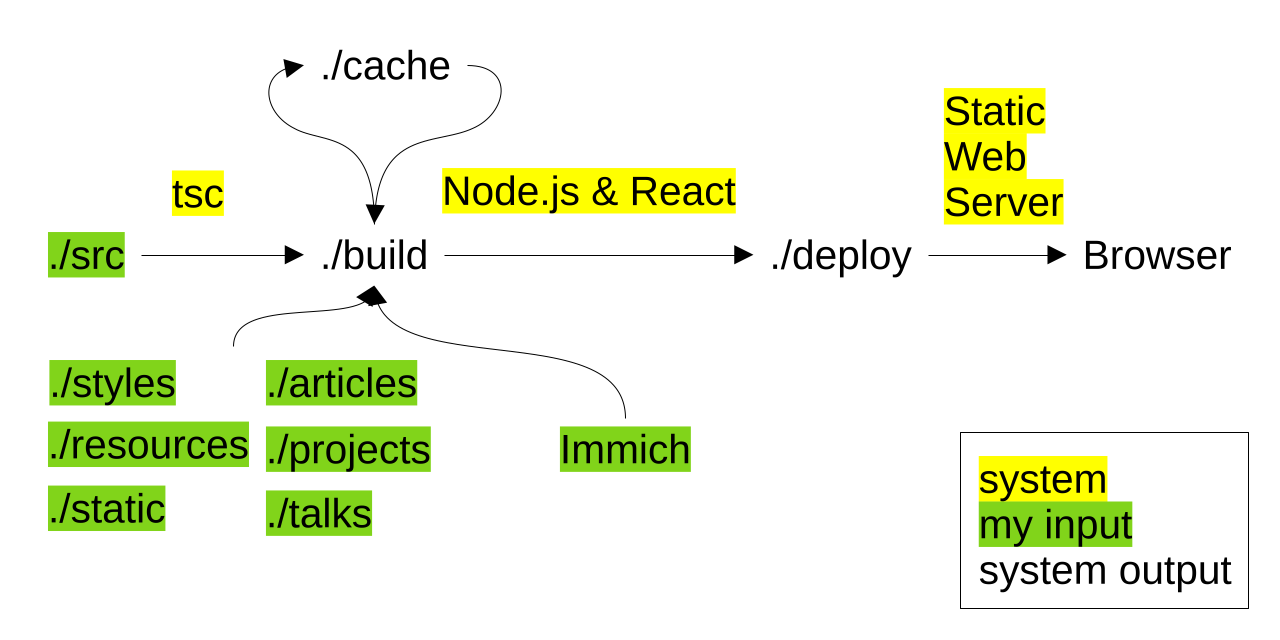
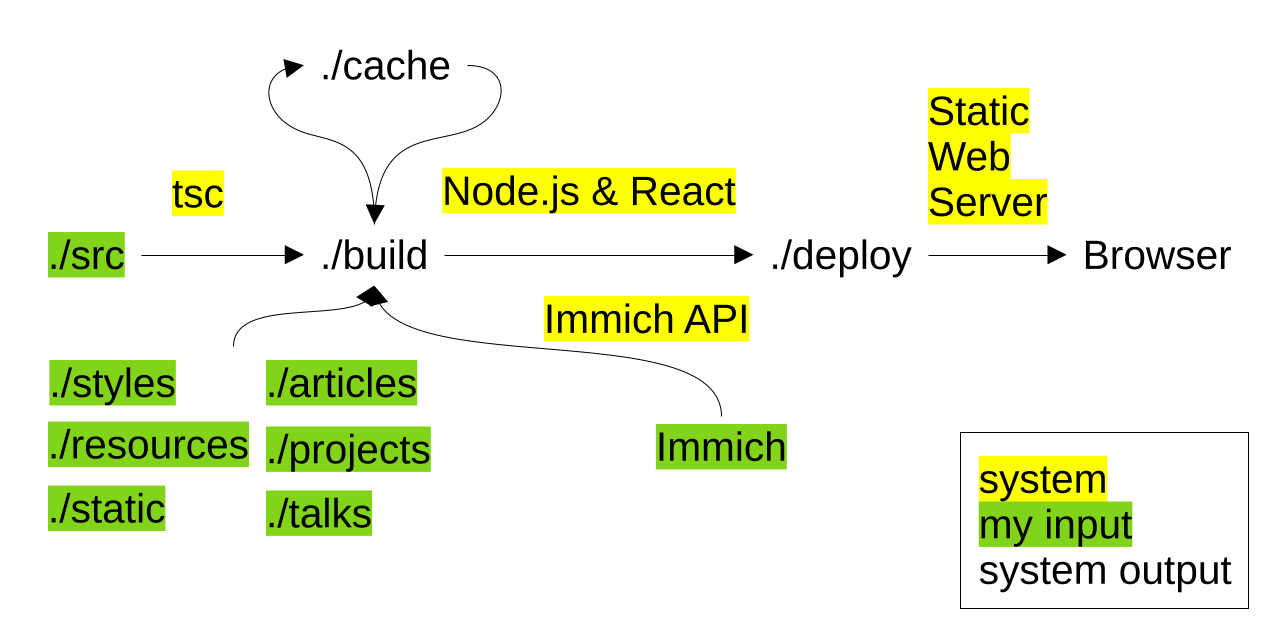
feat: work on homepage articl

diff --git a/src/worker/embedding_worker.tsx b/src/worker/embedding_worker.tsx
@@ -51,7 +51,7 @@ export async function embedSentences(sentences: string[]): Promise<number[][]> {
 
     if (sentenceExtractor == undefined) {
         env.localModelPath = modelPath;
-        // We loda the model from the internet in the CI pipeline but use the local one on the dev machine.
+        // We load the model from the internet in the CI pipeline but use the local one on the dev machine.
         // env.allowRemoteModels = false;
         sentenceExtractor = await pipeline("feature-extraction", "Xenova/all-MiniLM-L6-v2", { dtype: "fp32" });
     }

diff --git a/articles/24_new_homepage/new_homepage.md b/articles/24_new_homepage/new_homepage.md
@@ -11,7 +11,7 @@ hero: "./hero.jpg"
 hero_horizontal_position: 60
 hero_vertical_position: 50
 slug: no_framework_homepage
-date: "2026-01-02"
+date: "2026-01-03"
 tags: [software_dev, typescript, react, web, immich, umami, mdx]
 listed: false
 ---
@@ -28,7 +28,7 @@ Because I write my [articles](/articles) in MarkDown and have a lot of content I
 React integrates amazing templating into a powerful programming language.
 However, I don't want any client-side JavaScript.
 [renderToPipeableStream](https://react.dev/reference/react-dom/server/renderToPipeableStream) comes to the rescue and converts any React component into static HTML.
-I run that function for every route I want to create (e.g., for each article in a loop; [see `build.tsx`](https://github.com/christopher-besch/homepage/blob/main/src/build.tsx)).
+I run that function for every route I want to create (e.g., for each article in a loop; see [`build.tsx`](https://github.com/christopher-besch/homepage/blob/main/src/build.tsx)).
 My code places that in `./deploy` while simply copying the CSS styles.
 I wrote my code in TypeScript with JSX (`.tsx` file extension) and directly compile it with tsc.
 That conveniently takes care of compiling the JSX syntax away for Node.js to directly evaluate.
@@ -41,24 +41,25 @@ Firstly, I use [MDX](https://mdxjs.com) to convert a MarkDown article into a Rea
 Funnily enough, my old Gatsby homepage used MDX, too.
 The difference: When I want some new feature (e.g., Code Highlighting or LaTeX markup) I can use the massive [unified](https://unifiedjs.com) ecosystem directly and don't have to rely on outdated, undocumented Gatsby-plugins.
 
-### Chris' AI Homepage Agentic AI AI AI xD
-It's just image and sentence [embedding](https://en.wikipedia.org/wiki/Embedding_(machine_learning)), actually.
-I use [transformer.js](https://huggingface.co/docs/transformers.js/index) to for any given article automatically find similar articles and do the same for [photos](/photography).
-My CPU-only machine does that surprisingly fast.
+### Chris' AI Homepage Agentic AI genAI AI xD
+It's just image and sentence [embedding](https://en.wikipedia.org/wiki/Embedding_(machine_learning)) with [transformer.js](https://huggingface.co/docs/transformers.js/index), actually.
+[`embedding_worker.tsx`](https://github.com/christopher-besch/homepage/blob/main/src/worker/embedding_worker.tsx) and [`embedding.tsx`](https://github.com/christopher-besch/homepage/blob/main/src/embedding.tsx) take care of finding similar articles and [photos](/photography).
+transformer.js runs surprisingly fast on my CPU-only machine, too.
+Now every article and photo on my homepage has a *Similar Articles / Similar Photos* section.
 
 ### Immich
 [Immich](https://immich.app) is an amazing tool to select, sort, rate and tag photos (among other).
-Firstly, I upload and catalogue all my photos to Immich and use it's API from TypeScript to download the photos I want to publish into the `./cache` dir ([see `immich.tsx`](https://github.com/christopher-besch/homepage/blob/main/src/immich.tsx)).
+Firstly, I upload and catalogue all my photos to Immich and use it's API from TypeScript to download the photos I want to publish into the `./cache` dir (see [`immich.tsx`](https://github.com/christopher-besch/homepage/blob/main/src/immich.tsx)).
 This keeps me from uploading my high-res images to the public Git repo, which I don't want to do.
 
 ### Image Conversion
+<HalfImage full={false} src="lqip.png" />
+
 Once my code downloaded my high-res photos from Immich, it uses [sharp](https://sharp.pixelplumbing.com) to convert them into roughly four web-friendly `.webp` files of different resolution.
 Like this, a smartphone browser uses a smaller file than on a desktop, all without client-side JavaScript.
 That's efficient!
-I even bothered creating low quality image previews (LQIP) using [radial-gradient()](https://developer.mozilla.org/en-US/docs/Web/CSS/Reference/Values/gradient/radial-gradient) ([see `convert_image.tsx`](https://github.com/christopher-besch/homepage/blob/main/src/convert_image.tsx) and [my `Image` React component](https://github.com/christopher-besch/homepage/blob/main/src/components/image.tsx)).
+I even bothered creating low quality image previews (LQIP) using [radial-gradient()](https://developer.mozilla.org/en-US/docs/Web/CSS/Reference/Values/gradient/radial-gradient) (see [`convert_image.tsx`](https://github.com/christopher-besch/homepage/blob/main/src/convert_image.tsx) and [my `Image` React component](https://github.com/christopher-besch/homepage/blob/main/src/components/image.tsx)).
 Before an image has loaded, the browser shows a blurry gradient.
-
-<HalfImage full={false} src="lqip.png" />
 
 ### Analytics
 I use a self-hosted instance of [umami](https://umami.is) for analytics.
@@ -67,7 +68,7 @@ Additionally, I use it's [events feature](https://umami.is/docs/track-events) fo
 So, yes, a little bit of (non-essential) client-side JavaScript found its place on my homepage.
 The analytics are surprisingly fun to look through and, e.g., see what happens when [manim.community](https://manim.community) temporarily links to one of my articles.
 
-<HalfImage full={false} src="analytics.png" />
+<HalfImage full={true} src="analytics.png" />
 
 Those are all features you only add if you need them.
 PDF articles, article readtime, RSS feed, MarkDown table-of-contents or footnotes — just find a small library or write it yourself.
@@ -76,7 +77,7 @@ But feel free to stick to the basics and don't use any more dependencies than in
 That's the point of not using a framework:
 You might still have a lot of dependencies but only those you truly need and don't create your entire homepage around them.
 Once Gatsby kicked the bucked, I had to re-create my homepage.
-Now if MDX goes, I'll just slot-in a different MarkDown compiler and are back on-track.
+Now if MDX goes, I'll just slot-in a different MarkDown compiler and am back on-track.
 
 ### Why not Parallel and Async?
 For fun I put a lot of effort into doing as much as possible asynchronously and in parallel.
@@ -102,12 +103,12 @@ export async function embedSentencesOnPool(sentences: string[]): Promise<number[
 Among others I also had issues with
 - creating directories asynchronously (For some reason this is racey in Node.js),
 - creating directories in parallel (This one makes sense),
-- worker threads not being able to add jobs to the worker pool's job queue,
+- worker threads not being able to add work to the ([piscina](https://piscinajs.dev)'s) job queue,
 - a ridiculous undefined behaviour bug in transformer.js (or rather onnxruntime).
   It sometimes segfaults when importing (not using, just importing) transformer.js in multiple threads (Why?).
 
 ### Conclusion
-I really like my new homepage and feel confident I'll get to implement any new feature I may need.
+I really like my new homepage and am confident I'll get to implement any new feature I may need.
 The source code is [here](https://github.com/christopher-besch/homepage), of which some files are Open-Source.
 My [homepage_template](https://codeberg.org/christopher-besch/homepage_template), however, is fully Open-Source.
 Enjoy!
